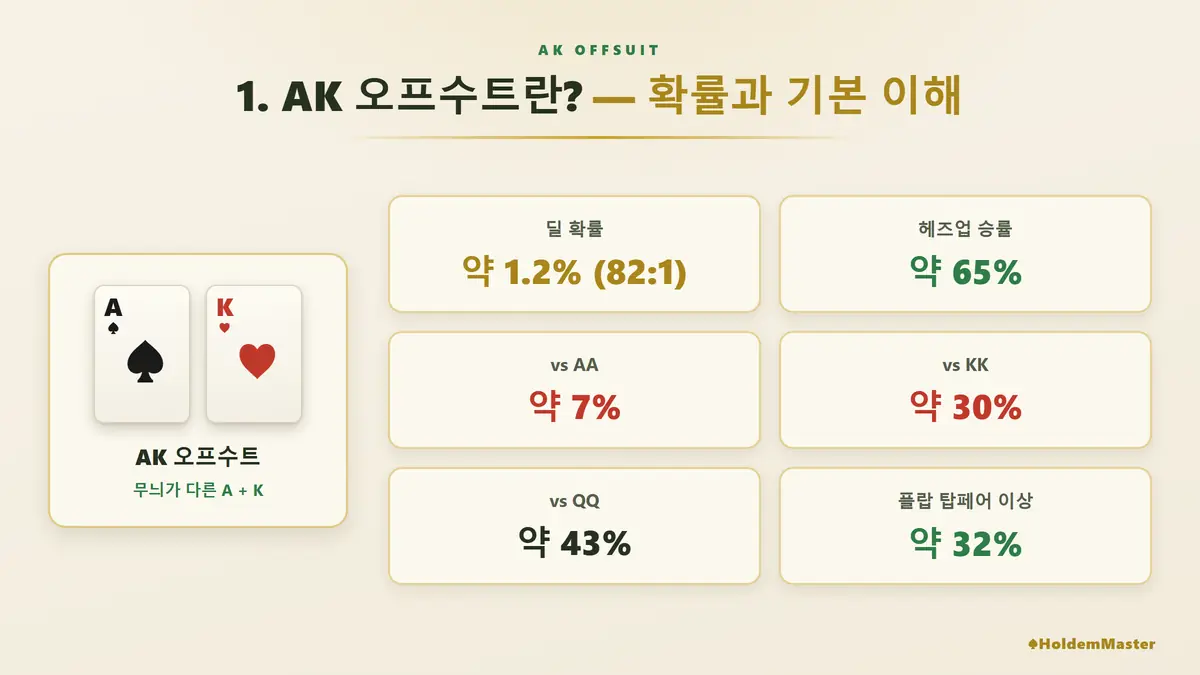
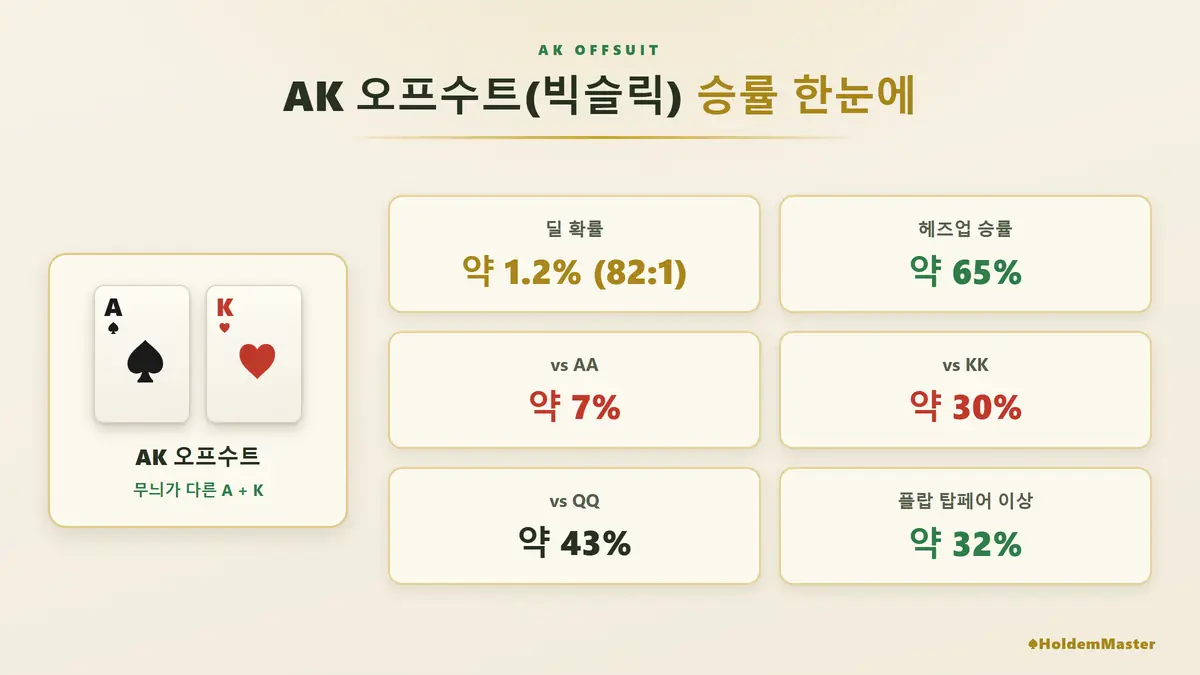
fix(review): ak-offsuit-strategy 경화 + 자동완성 수요로 3개 절 신설 + §13 오류 2건
게이트 🔴 2건 · 🟠 5건. 28일 노출 1로 사실상 안 보이는 글이었다.

★§13 오류 2건 — 하나는 이미지가 맞고 본문이 틀렸다
① 본문 표 "vs AA 승률 약 12%" → **약 7%**로 정정.
   12%는 AK **수티드** 수치다. AA vs AK오프수트는 약 92.6% : 7.4%.
   같은 글의 인포그래픽은 처음부터 7%로 맞게 그려져 있었다 — 표와 그림이 서로 달랐다.
② tldr "핸드 순위 6위" — AA·KK·QQ·JJ·TT 다음이라 세면 6위인데 AK 수티드가 빠졌다.
   본문 스스로 "수티드가 약 3% 높다"고 하므로 자기모순이었다. 순위 단정 대신 성격으로 서술.

★구글 자동완성 실측으로 3개 절 신설 (사장님 지시)
「홀덤 ak 승률」·「홀덤 ak 운영」·「빅슬릭 뜻」·「홀덤 aks/ako」가 실재하는 수요였다.
(「빅슬릭 웹툰」은 다른 도메인이라 노이즈로 제외)
- `## AK 승률은 어떻게 되나요?` — 절 안에 묻혀 있던 승률표를 독립 H2로 승격
- `## AK를 왜 빅슬릭이라고 부르나요?` — 신설. 별명 유래 + AKs/AKo 표기 안내
- `## AK 수티드와 오프수트는 뭐가 다른가요?` — 신설. 비교표 추가
  (AA를 만났을 때만 7% vs 12%로 벌어지고, AKo는 조합이 3배 많다는 점)
- FAQ 1문항 교체 — 수티드 질문은 본문 절로 옮겼으므로 「4벳 맞으면 접나」로 대체

경화
- 질문형 H2 0% → 100% (번호형 "1. 2. 3." → 검색자가 치는 질문으로)
- 각 H2 직후 40~75단어 Q-A-E 직답 삽입
- `:::stripe` + `> **바로 답**` 신설, §14-A 6 순서 준수
- title·seoTitle에서 ⚡ 이모지 제거(F7) · seoTitle 33 → 26자 · desc 97 → 규격 내
- **히어로 이미지가 아예 없었다**(F10) → ak-offsuit-basic을 히어로로 승격하고
  본문 중복 제거. 그림 제목이 "1. AK 오프수트란?"이라 새 구조와 안 맞아
  gen-ak-offsuit-basic.html 제목을 고쳐 재렌더(21KB)
- updated 2026-06-04 → 2026-08-02

검증: audit:hard 🔴 0 🟠 0 · build 611 · FAQ 스키마 5문항 ·
산출물에서 이모지 0 · "vs AA 12%" 잔존 0 · stripe → 바로 답 정순 · 신설 H2 3개 렌더 확인.

diff --git a/lib/posts/ak-offsuit-strategy.ts b/lib/posts/ak-offsuit-strategy.ts
@@ -2,17 +2,24 @@ import type { Post } from "../posts";
 
 export const POST: Post = {
   slug: "ak-offsuit-strategy",
-  title: "⚡ AK 오프수트 전략 — 빅슬릭 제대로 플레이하는 법",
-  seoTitle: "⚡ AK 오프수트 — 콜로 쓰면 반값, 3벳으로 쓸 때 제값",
-  desc: "【AK 오프수트】받으면 흥분하고 플랍 미스하면 패닉 — AK가 왜 그럴까요? ⚡프리플랍 3벳 기준·포스트플랍 히트·미스 대응·멀티웨이 주의사항까지 실전 중심으로 정리했습니다.",
-  tldr: "AK 오프수트(빅슬릭)는 홀덤 핸드 순위 6위로, 프리플랍에서 반드시 3벳으로 공격해야 가치를 극대화합니다. 플랍 히트율은 약 32%입니다.",
+  title: "AK 오프수트 전략 — 빅슬릭 승률과 3벳 기준",
+  seoTitle: "콜로 쓰면 반값, 3벳이면 제값 — AK 오프수트",
+  desc: "받으면 흥분하고 플랍 미스하면 패닉. AK 승률과 플랍 히트율 32%, 프리플랍 3벳 기준과 미스했을 때 대응까지 실전 중심으로 정리했습니다.",
+  // ★2026-08-02 §13 정정 2건
+  //   ① tldr "핸드 순위 6위" — AA·KK·QQ·JJ·TT 다음이라 세면 6위인데 **AK 수티드가 빠졌다**.
+  //      본문 스스로 "수티드가 약 3% 높다"고 하므로 자기모순. 순위 단정 대신 성격으로 서술한다.
+  //   ② 본문 표 "vs AA 약 12%" — 12%는 AK **수티드** 수치다.
+  //      AA vs AK오프수트는 약 92.6% : 7.4%라 **약 7%**가 맞다(같은 글 이미지도 7%로 맞게 그려져 있었다).
+  tldr: "AK 오프수트(빅슬릭)는 플랍에서 맞아야 힘이 나오는 핸드다. 헤즈업 승률은 약 65%지만 플랍에서 탑페어 이상을 만들 확률은 약 32%뿐이라, 3번 중 2번은 아무것도 없이 다음 결정을 해야 한다. 그래서 프리플랍에서 콜로 들어가면 가치가 반으로 깎이고, 3벳으로 헤즈업을 만들어야 제값이 나온다.",
   category: "전략",
   date: "2026-06-04",
-  updated: "2026-06-04",
+  updated: "2026-08-02",
   keepImagesInBody: true,
   readTime: "9분",
   emoji: "🃏",
-  tags: ["AK 오프수트 전략", "빅슬릭 플레이법", "AK 포스트플랍", "AK 프리플랍 3벳", "홀덤 AK"],
+  image: "/images/ak-offsuit-basic.webp",
+  imageAlt: "AK 오프수트의 딜 확률·헤즈업 승률·AA/KK/QQ 상대 승률·플랍 히트율을 한 화면에 정리한 카드",
+  tags: ["AK 오프수트 전략", "AK 승률", "빅슬릭 뜻", "AK 수티드 차이", "AK 프리플랍 3벳"],
   content: `
 홀덤펍에서 A♠K♣를 받았을 때 이야기를 하나 해드릴게요.
 
@@ -22,37 +29,69 @@ export const POST: Post = {
 
 나중에 알게 됐어요. **AK 오프수트**는 "비교적 강한 핸드"가 아니라 **"공격적으로 써야 가치가 나오는 핸드"**라는 걸요. 콜로 쓰면 반쪽짜리 AK입니다.
 
-### 📋 이 글 핵심 요약
-- AK는 프리플랍 무조건 3벳 — 콜은 가치를 절반으로 깎는다
-- 플랍 히트율은 약 32% — 미스가 기본값이다
-- 미스했을 때 무조건 포기하면 AK의 장점을 버리는 것
-- 멀티웨이에서 AK 가치는 급격히 낮아진다
-- AA·KK 상대 3벳은 감수해야 할 리스크
+### 이 글 핵심 요약
+
+:::stripe
+성격 | 완성된 패가 아니라 플랍에서 맞아야 힘이 나오는 패
+히트율 | 플랍에서 탑페어 이상은 약 32% — 미스가 기본값
+프리플랍 | 콜은 가치를 반으로 깎는다 · 3벳으로 헤즈업
+미스했을 때 | 무조건 포기도 손해 — 조건이 맞으면 한 번은 친다
+:::
+
+> **바로 답**
+> AK는 AA·KK처럼 그 자체로 완성된 패가 아니라 **플랍에서 맞아야 힘이 나오는 패**입니다.
+> 헤즈업 승률은 약 65%로 높은데, 정작 플랍에서 탑페어 이상을 만들 확률은 **약 32%**뿐이에요.
+> 3번 중 2번은 아무것도 없는 채로 다음 결정을 해야 한다는 뜻입니다.
+> 그래서 프리플랍에서 콜로 들어가면 팟은 작은데 미스는 그대로 옵니다. **3벳으로 상대를 줄여
+> 헤즈업을 만들어야** AK의 65%가 실제로 작동합니다.
 
 ---
 
-## 1. AK 오프수트란? — 확률과 기본 이해
+## AK 승률은 어떻게 되나요?
 
-**AK 오프수트**는 홀덤에서 AA·KK·QQ·JJ·TT 다음으로 강력한 프리미엄 핸드입니다. '빅슬릭(Big Slick)'이라는 별명으로도 불려요.
+**임의의 상대를 상대로 약 65%이고, 프리미엄 포켓페어를 만나면 확 떨어집니다.** AA를 만나면 약 7%까지 내려가고 KK는 30%, QQ는 43%입니다. 즉 AK가 두려워할 대상은 사실상 **AA·KK 둘뿐**이고, 나머지 대부분의 핸드에는 앞서 있습니다.
 
 | 항목 | 수치 |
 |------|------|
-| 딜 확률 | 약 1.2% (83:1) |
+| 딜 확률 | 약 1.2% (82:1) |
 | vs 임의 핸드 헤즈업 승률 | 약 65% |
-| vs AA 승률 | 약 12% |
+| vs AA 승률 | 약 7% |
 | vs KK 승률 | 약 30% |
 | vs QQ 승률 | 약 43% |
 | 플랍 탑페어 이상 히트율 | 약 32% |
 
 여기서 핵심은 **플랍 히트율 32%**입니다. 3번 중 2번은 플랍에서 아무것도 맞지 않는다는 뜻이에요. 그래서 AK를 "드로잉 핸드"라고 부르는 플레이어들도 있습니다.
 
-AK 수티드(같은 무늬)보다 오프수트가 플러시 가능성이 없어 약 3% 승률이 낮지만, 전략적 접근법은 동일합니다.
-
-![AK 오프수트란? 확률과 기본 이해 — 딜 확률·헤즈업 승률·플랍 히트율 한눈에 정리|w](/images/ak-offsuit-basic.webp)
+==QQ 상대 43%==라는 숫자도 눈여겨볼 만합니다. QQ를 만나면 지고 있긴 하지만 거의 동전 던지기라, 프리플랍에서 칩이 다 들어가도 재앙은 아닙니다. AK로 손해를 보는 자리는 QQ가 아니라 **AA·KK에 4벳을 맞은 자리**예요.
 
 ---
 
-## 2. AK 프리플랍 전략 — 무조건 3벳
+## AK를 왜 빅슬릭이라고 부르나요?
+
+**"미끄럽다(slick)"는 말 그대로, 크게 보이는데 손에서 잘 빠져나가기 때문입니다.** 받는 순간은 프리미엄인데 플랍의 3분의 2는 아무것도 안 맞으니, 기대만큼 붙잡기 어려운 패라는 뜻이 별명에 담겨 있습니다.
+
+한국 홀덤펍에서는 그냥 "에이스 킹"이나 "빅슬릭" 둘 다 씁니다. 무늬가 같으면 AKs(수티드), 다르면 AKo(오프수트)로 적고 이 글은 **AKo 기준**입니다.
+
+---
+
+## AK 수티드와 오프수트는 뭐가 다른가요?
+
+**승률로는 2~3%p 차이고, 전략은 사실상 같습니다.** 같은 무늬면 플러시 가능성이 얹혀 임의의 상대 상대로 약 67%(오프수트 65%)가 됩니다. 이 정도로 플레이 방식이 뒤집히지는 않아요 — 둘 다 프리플랍 3벳 핸드로 씁니다.
+
+| 비교 | AK 수티드(AKs) | AK 오프수트(AKo) |
+|---|:---:|:---:|
+| 헤즈업 승률 | 약 67% | 약 65% |
+| vs AA | 약 12% | 약 7% |
+| 조합 수 | 4개 | 12개 |
+| 플러시 가능성 | 있음 | 없음 |
+
+차이가 눈에 띄게 벌어지는 건 **AA를 만났을 때**입니다. 플러시 아웃이 얹히는 수티드는 12%까지 버티지만 오프수트는 7%로 내려가요. 다만 AKo는 조합이 3배 많아서 **실제로 훨씬 자주 손에 들어오는 쪽**입니다.
+
+---
+
+## 프리플랍에서 AK는 어떻게 운영하나요?
+
+**콜로 받지 말고 3벳으로 올려서 헤즈업을 만드세요.** AK는 상대가 한 명일 때 65%지만 여러 명이 따라오면 그 숫자가 무너집니다. 3벳은 QQ·JJ·TT를 붙잡아 앞선 상태로 팟을 키우고, AQ·KQ처럼 내가 도미네이트하는 핸드를 걸러내는 두 가지 일을 동시에 합니다.
 
 AK를 콜로 들어가는 가장 큰 문제는 **팟을 키우지 않고, 포지션도 안 좋은 상황을 자초한다**는 점입니다.
 
@@ -75,7 +114,9 @@ AK를 콜로 들어가는 가장 큰 문제는 **팟을 키우지 않고, 포지
 
 ---
 
-## 3. AK 포스트플랍 — 히트·미스 상황별 대응
+## 플랍에서 미스하면 어떻게 하나요?
+
+**조건이 맞으면 한 번은 치고, 안 맞으면 그 자리에서 접습니다.** 헤즈업이고 드라이 보드이고 포지션이 있으면 팟의 33~50%로 C벳 한 번이 유효합니다. 반대로 멀티웨이거나 상대가 이미 콜을 붙이는 패턴이면 에이스 하이는 그냥 에이스 하이예요. **무조건 포기도, 무조건 블러프도 둘 다 손해**입니다.
 
 ### 히트한 경우 (탑페어 탑키커)
 
@@ -96,7 +137,9 @@ AK를 콜로 들어가는 가장 큰 문제는 **팟을 키우지 않고, 포지
 
 ---
 
-## 4. AK 자주 하는 실수 WORST 4
+## AK로 가장 많이 하는 실수는 뭔가요?
+
+**콜로 들어가는 것과, 미스했다고 매번 접는 것 — 정반대인 두 실수가 가장 많습니다.** 앞은 이길 판을 작게 만들고, 뒤는 이길 수 있는 판을 스스로 버립니다. 아래 넷은 홀덤펍에서 실제로 가장 자주 보이는 순서대로입니다.
 
 **WORST 1 — 프리플랍 림프(콜)**
 AK를 콜로만 들어가면 팟이 작아지고, 탑페어 만들어도 뽑아낼 칩이 없습니다.
@@ -119,9 +162,9 @@ T♥-J♥-Q♥ 같은 보드에서 A♥ 히트해도 위험합니다. 콜 횟수
 
 ## 자주 묻는 질문 (FAQ)
 
-**Q. AK 오프수트와 수티드 차이가 크나요?**
+**Q. AK로 프리플랍에서 4벳을 맞으면 접어야 하나요?**
 
-A. 승률 기준으로 대략 2~3%p 차이입니다. 같은 무늬면 플러시 가능성이 얹히기 때문인데, 이 정도 차이로 전략이 뒤집히지는 않습니다. 둘 다 프리플랍 3벳 핸드로 씁니다.
+A. 상대가 어떤 사람이냐로 갈립니다. 타이트한 상대의 4벳은 AA·KK에 몰려 있어 접는 게 맞고, 자주 3벳·4벳을 섞는 상대라면 AK는 5벳까지 갈 수 있는 핸드입니다. AK vs KK가 30%, vs AA가 7%라 **어느 쪽을 만나느냐로 손익이 크게 갈리기 때문**입니다.
 
 **Q. AK vs AA, 미리 알 수 있는 방법이 있나요?**
 
@@ -137,7 +180,7 @@ A. 팟의 33~50%가 적당합니다. 1회 C벳 후 콜이 들어오면 대부분
 
 **Q. AK는 핸드 차트에서 몇 순위예요?**
 
-A. 자료마다 조금씩 다르지만, 포켓페어 AA·KK·QQ·JJ·TT 바로 다음 그룹으로 보는 경우가 많습니다. 순위 자체보다 **성격이 다르다**는 점이 중요합니다 — AA·KK는 그 자체로 완성된 패지만 AK는 **플랍에서 맞아야 힘이 나오는 패**입니다.
+A. 자료마다 다릅니다. 헤즈업 승률로 줄을 세우면 AA·KK·QQ·JJ·TT와 AK 수티드 다음이라 대략 열 손가락 안쪽이에요. 다만 **순위 자체보다 성격이 다르다**는 점이 중요합니다 — AA·KK는 그 자체로 완성된 패지만 AK는 **플랍에서 맞아야 힘이 나오는 패**입니다. 그래서 같은 "프리미엄"이어도 운영 방식이 전혀 다릅니다.
 
 ![AK 오프수트 자주 묻는 질문 — 수티드 차이·올인 기준·C벳 사이즈·핸드 순위|w](/images/ak-offsuit-faq.webp)
 

diff --git a/scripts/gen-ak-offsuit-basic.html b/scripts/gen-ak-offsuit-basic.html
@@ -48,7 +48,7 @@ h1 .gold { color:#A8861B; }
 <body>
 <div class="stage">
   <div class="kicker">AK Offsuit</div>
-  <h1>1. AK 오프수트란? <span class="gold">— 확률과 기본 이해</span></h1>
+  <h1>AK 오프수트(빅슬릭) <span class="gold">승률 한눈에</span></h1>
   <div class="rule"></div>
   <div class="body">
     <div class="hand">
